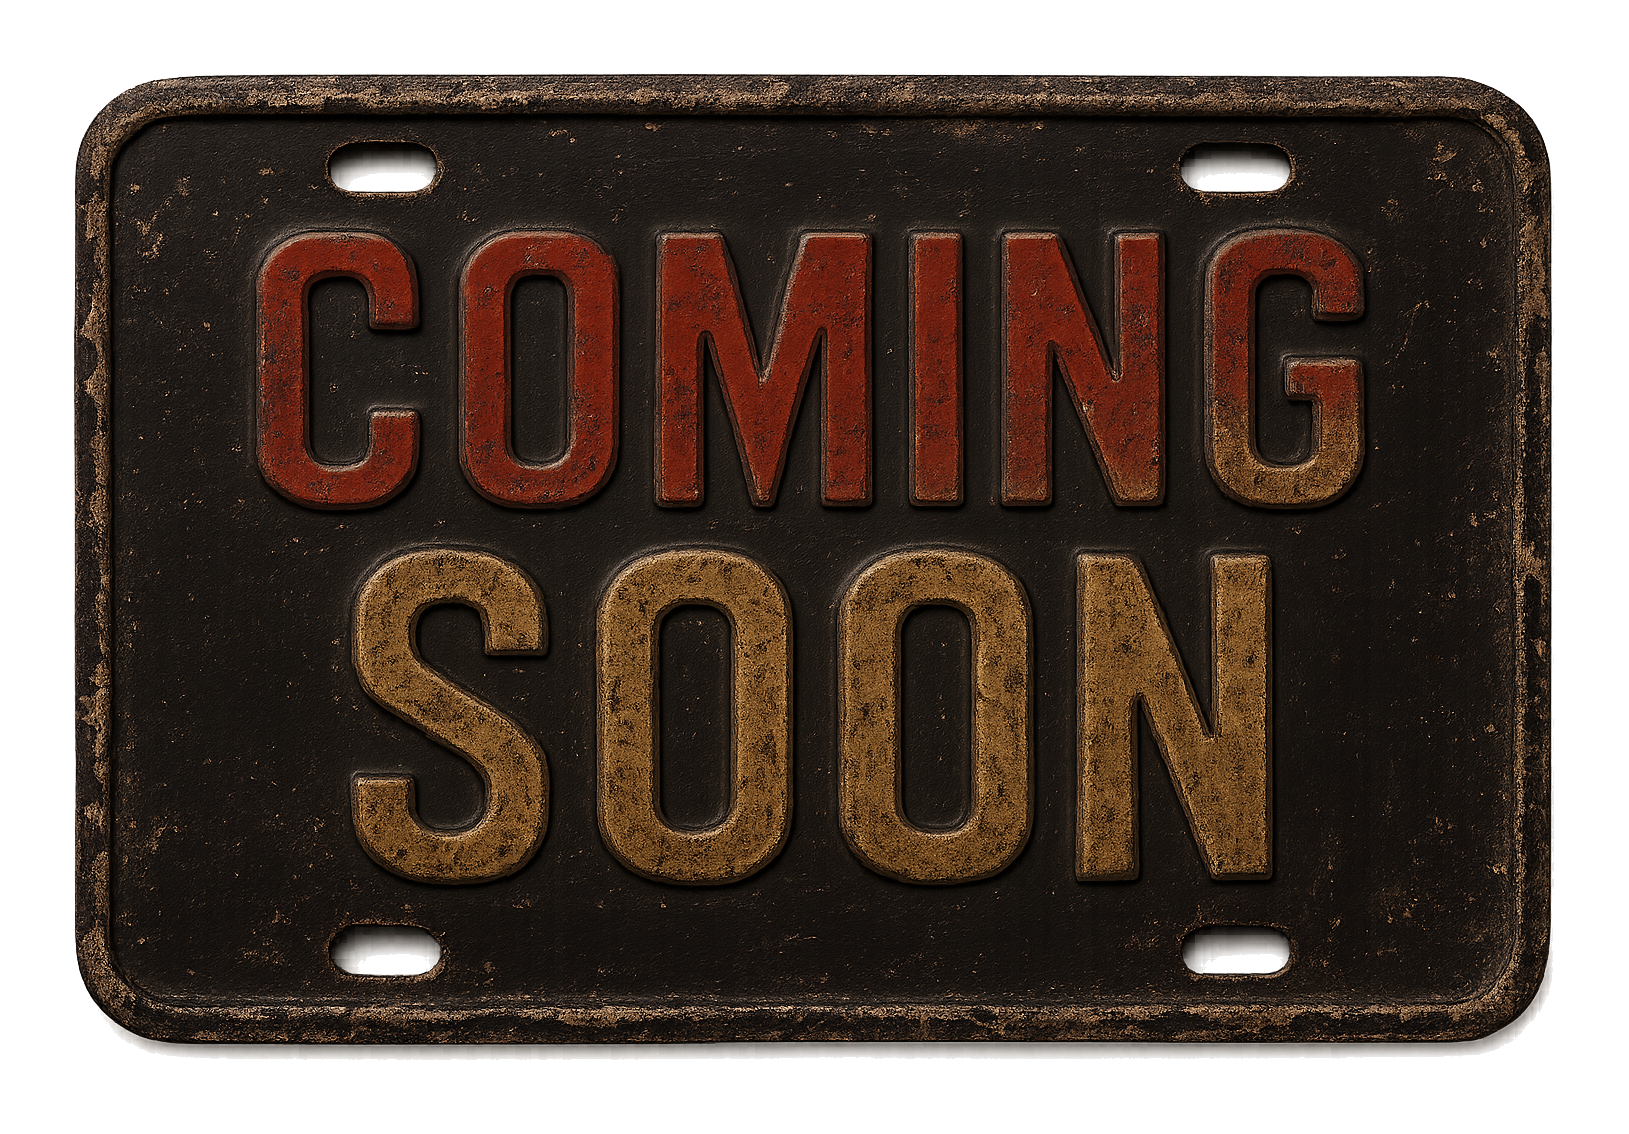
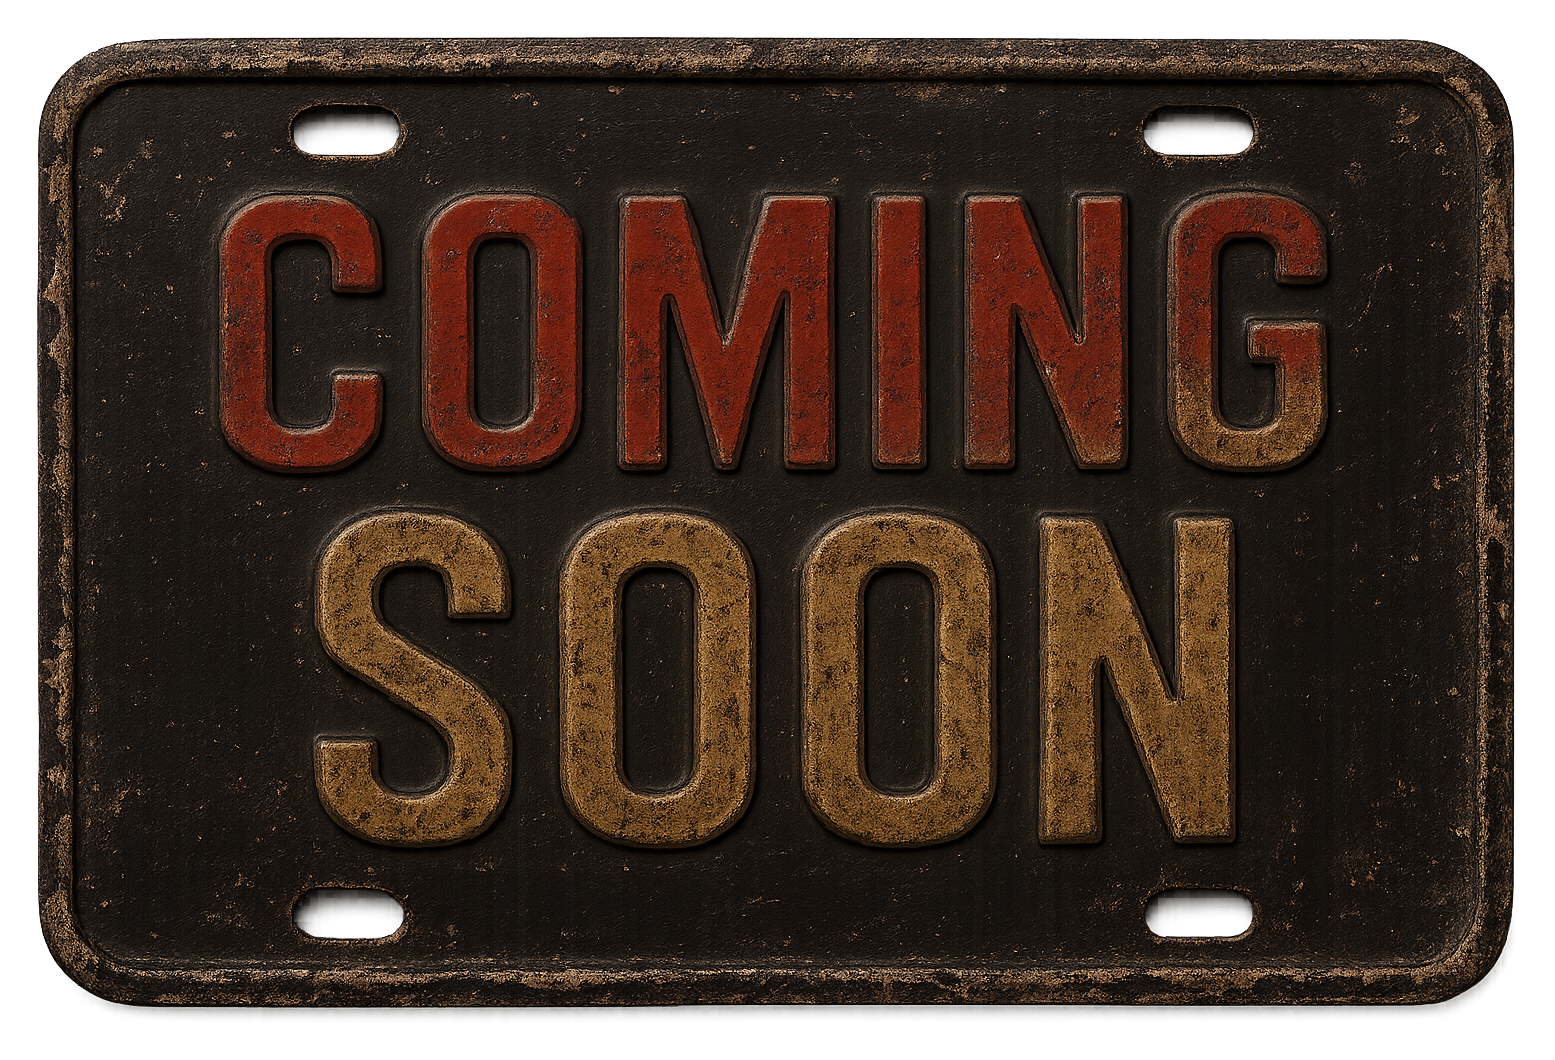
home/store visual fixes: full RevLimiter shot, restored REVLIMITER gauge, centred showcase cards, plate cleanup, dimmed bg
- revlimiter-hero.png: re-rendered full plugin surface (no bottom crop, clean edges)
- rev-gauge-face.png: restored original REVLIMITER dial (removed REVAUDIO sticker)
- coming-soon-plate.png: trimmed transparent margins
- PluginShowcase: removed title emblems, centred all card text, fixed REV red / AC blue (:global on set:html spans)
- PluginCard: plate cards float frameless at plate ratio (no bars/crop); centred title + one-liner
- index.astro: hero gauge right clearance so it is not clipped at 100% Chrome
- global.css: dark veil over background art (--bg-veil:0.4) so text reads stronger

diff --git a/src/styles/global.css b/src/styles/global.css
@@ -119,9 +119,15 @@ body {
   /* Zoom control: image drawn at --bg-w wide (not full cover) so the art reads
      relaxed, not blown up. Clamp keeps phones from getting a sliver. */
   --bg-w: max(90vw, 520px);
+  /* Background-art dimmer: a flat dark veil sits ABOVE the aurora image (and
+     below the content), muting the graphics so foreground text reads stronger.
+     Tune via --bg-veil (0 = full art, 1 = fully hidden). Base stays solid via
+     the var(--bg-0) background-color, so nothing white bleeds through. */
+  --bg-veil: 0.4;
   background:
     radial-gradient(ellipse at top, rgba(201, 163, 92, 0.05), transparent 60%),
     radial-gradient(ellipse at bottom, rgba(139, 58, 31, 0.04), transparent 60%),
+    linear-gradient(rgba(11, 10, 9, var(--bg-veil)), rgba(11, 10, 9, var(--bg-veil))),
     url('/bg/aurora-test.webp') 50% 0% / var(--bg-w) auto no-repeat var(--bg-0);
   pointer-events: none;
 }